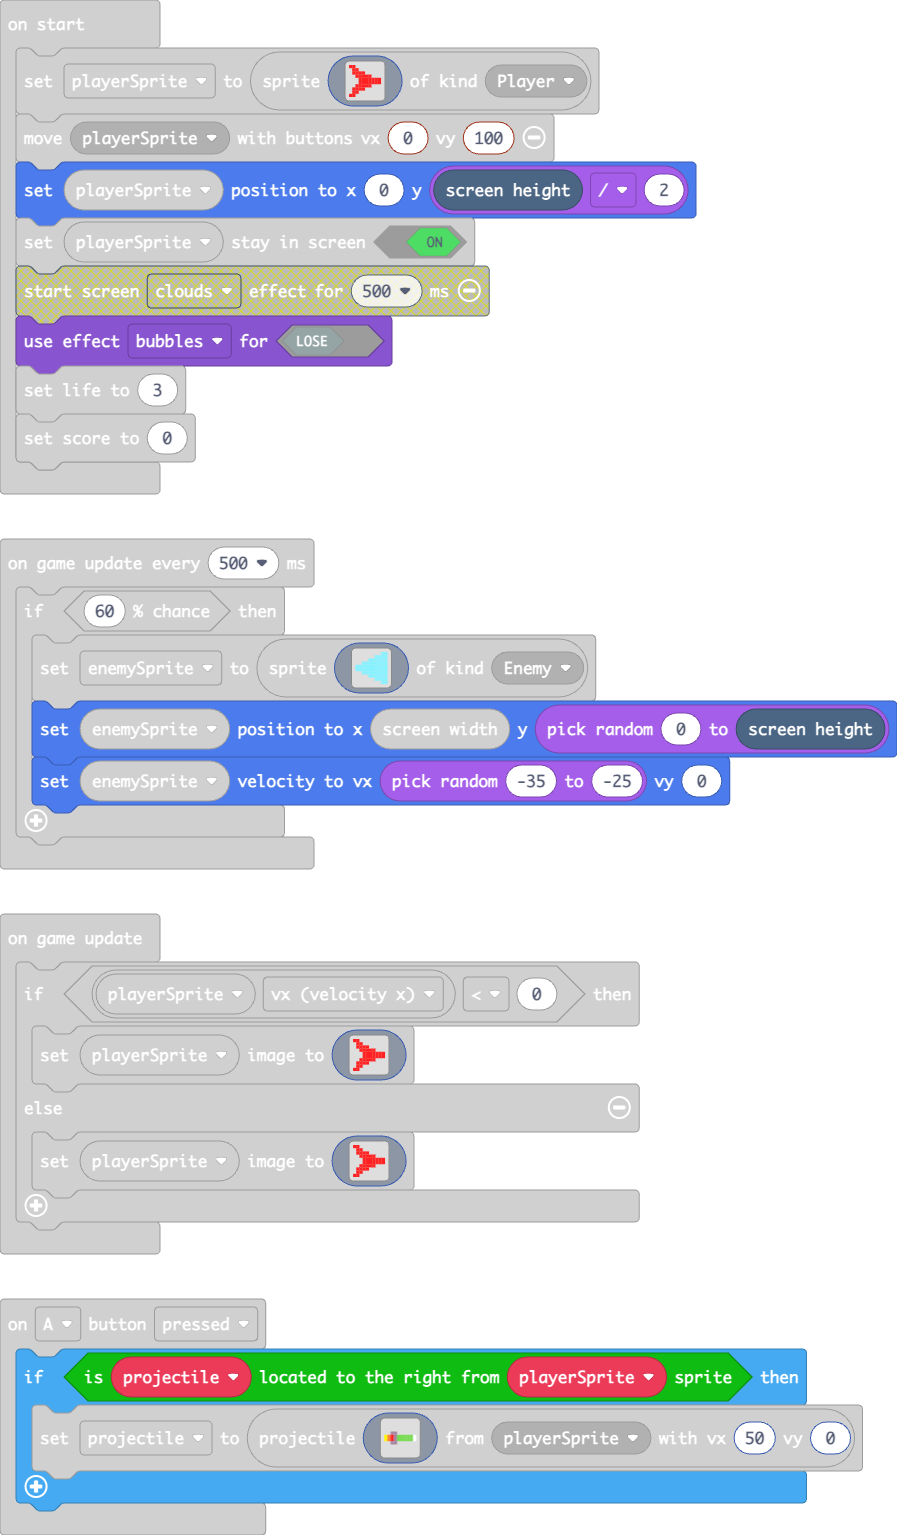
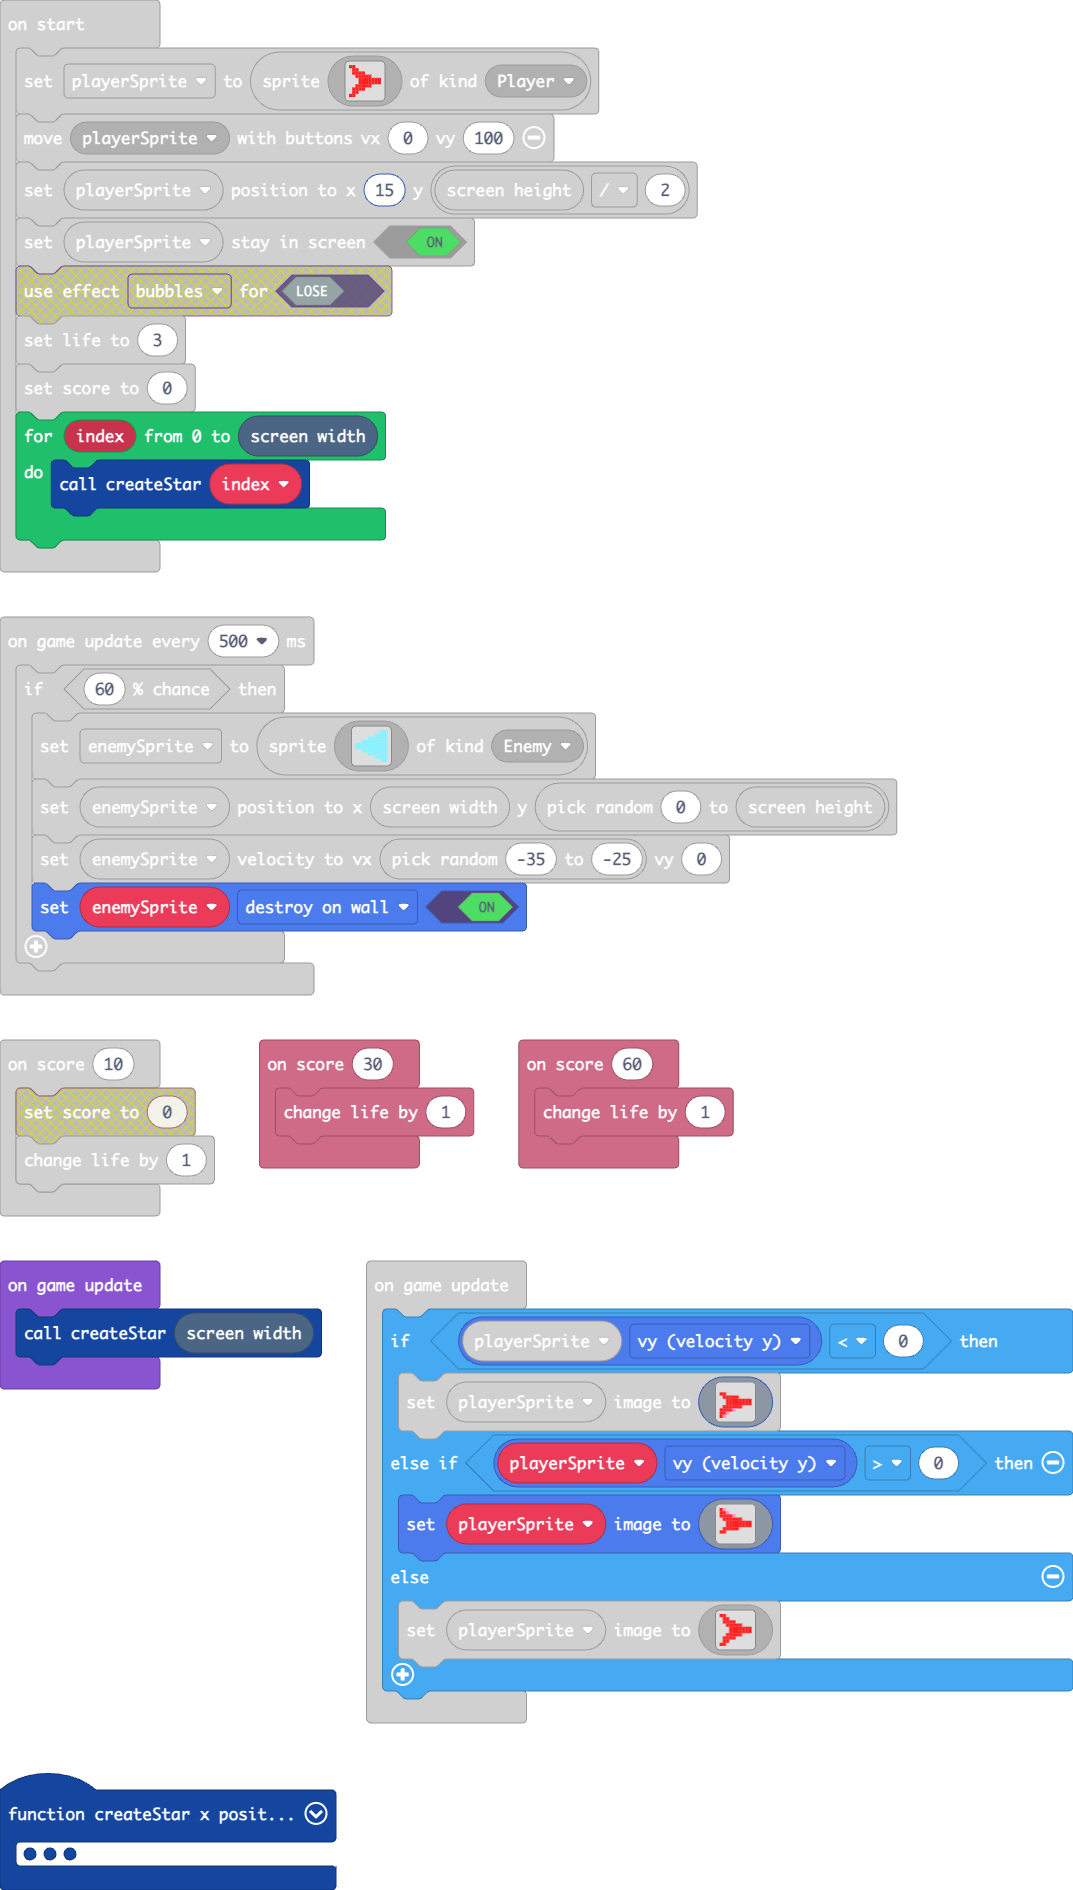
Update main.blocks, main.ts

diff --git a/main.ts b/main.ts
@@ -14,8 +14,37 @@ controller.A.onEvent(ControllerButtonEvent.Pressed, function () {
             `, playerSprite, 50, 0)
     }
 })
+function createStar (x_position: number) {
+    if (Math.percentChance(5)) {
+        star = sprites.createProjectileFromSide(img`
+            . . . . . . . . . . . . . . . . 
+            . . . . . . . . . . . . . . . . 
+            . . . . . . . . . . . . . . . . 
+            . . . . . . . . . . . . . . . . 
+            . . . . . . . . . . . . . . . . 
+            . . . . . . . . . . . . . . . . 
+            . . . . . . . . . . . . . . . . 
+            . . . . . . . 1 . . . . . . . . 
+            . . . . . . . . . . . . . . . . 
+            . . . . . . . . . . . . . . . . 
+            . . . . . . . . . . . . . . . . 
+            . . . . . . . . . . . . . . . . 
+            . . . . . . . . . . . . . . . . 
+            . . . . . . . . . . . . . . . . 
+            . . . . . . . . . . . . . . . . 
+            . . . . . . . . . . . . . . . . 
+            `, randint(-5, -15), 0)
+        star.setFlag(SpriteFlag.Ghost, true)
+        star.setPosition(x_position, randint(0, scene.screenHeight()))
+    }
+}
+info.onScore(60, function () {
+    info.changeLifeBy(1)
+})
+info.onScore(30, function () {
+    info.changeLifeBy(1)
+})
 info.onScore(10, function () {
-    info.setScore(0)
     info.changeLifeBy(1)
 })
 sprites.onOverlap(SpriteKind.Enemy, SpriteKind.Player, function (sprite, otherSprite) {
@@ -31,6 +60,7 @@ sprites.onOverlap(SpriteKind.Projectile, SpriteKind.Enemy, function (sprite, oth
     info.changeScoreBy(1)
 })
 let enemySprite: Sprite = null
+let star: Sprite = null
 let projectile: Sprite = null
 let playerSprite: Sprite = null
 playerSprite = sprites.create(img`
@@ -46,24 +76,42 @@ playerSprite = sprites.create(img`
     2 2 . . . . . . . . 
     `, SpriteKind.Player)
 controller.moveSprite(playerSprite, 0, 100)
-playerSprite.setPosition(0, scene.screenHeight() / 2)
+playerSprite.setPosition(15, scene.screenHeight() / 2)
 playerSprite.setStayInScreen(true)
-game.setGameOverEffect(false, effects.bubbles)
 info.setLife(3)
 info.setScore(0)
+for (let index = 0; index <= scene.screenWidth(); index++) {
+    createStar(index)
+}
 game.onUpdate(function () {
-    if (playerSprite.vx < 0) {
+    createStar(scene.screenWidth())
+})
+game.onUpdate(function () {
+    if (playerSprite.vy < 0) {
         playerSprite.setImage(img`
+            . . . . . . . . . . 
+            . . . . . . . . . . 
             2 2 . . . . . . . . 
-            . 2 2 . . . . . . . 
-            . 2 2 2 2 . . . . . 
-            . . 2 2 2 2 2 . . . 
-            . . . 2 2 2 2 2 2 2 
-            . . . 2 2 2 2 2 2 2 
-            . . 2 2 2 2 2 . . . 
-            . 2 2 2 2 . . . . . 
-            . 2 2 . . . . . . . 
+            . 2 2 2 2 2 . . . . 
+            . . 2 2 2 2 2 2 2 2 
+            . . 2 2 2 2 2 2 2 2 
+            . 2 2 2 2 2 2 . . . 
+            2 2 2 2 3 . . . . . 
+            2 2 3 . . . . . . . 
+            2 3 . . . . . . . . 
+            `)
+    } else if (playerSprite.vy > 0) {
+        playerSprite.setImage(img`
+            2 3 . . . . . . . . 
+            2 2 3 . . . . . . . 
+            2 2 2 2 3 . . . . . 
+            . 2 2 2 2 2 2 . . . 
+            . . 2 2 2 2 2 2 2 2 
+            . . 2 2 2 2 2 2 2 2 
+            . 2 2 2 2 2 . . . . 
             2 2 . . . . . . . . 
+            . . . . . . . . . . 
+            . . . . . . . . . . 
             `)
     } else {
         playerSprite.setImage(img`
@@ -96,5 +144,6 @@ game.onUpdateInterval(500, function () {
             `, SpriteKind.Enemy)
         enemySprite.setPosition(scene.screenWidth(), randint(0, scene.screenHeight()))
         enemySprite.setVelocity(randint(-35, -25), 0)
+        enemySprite.setFlag(SpriteFlag.DestroyOnWall, true)
     }
 })
